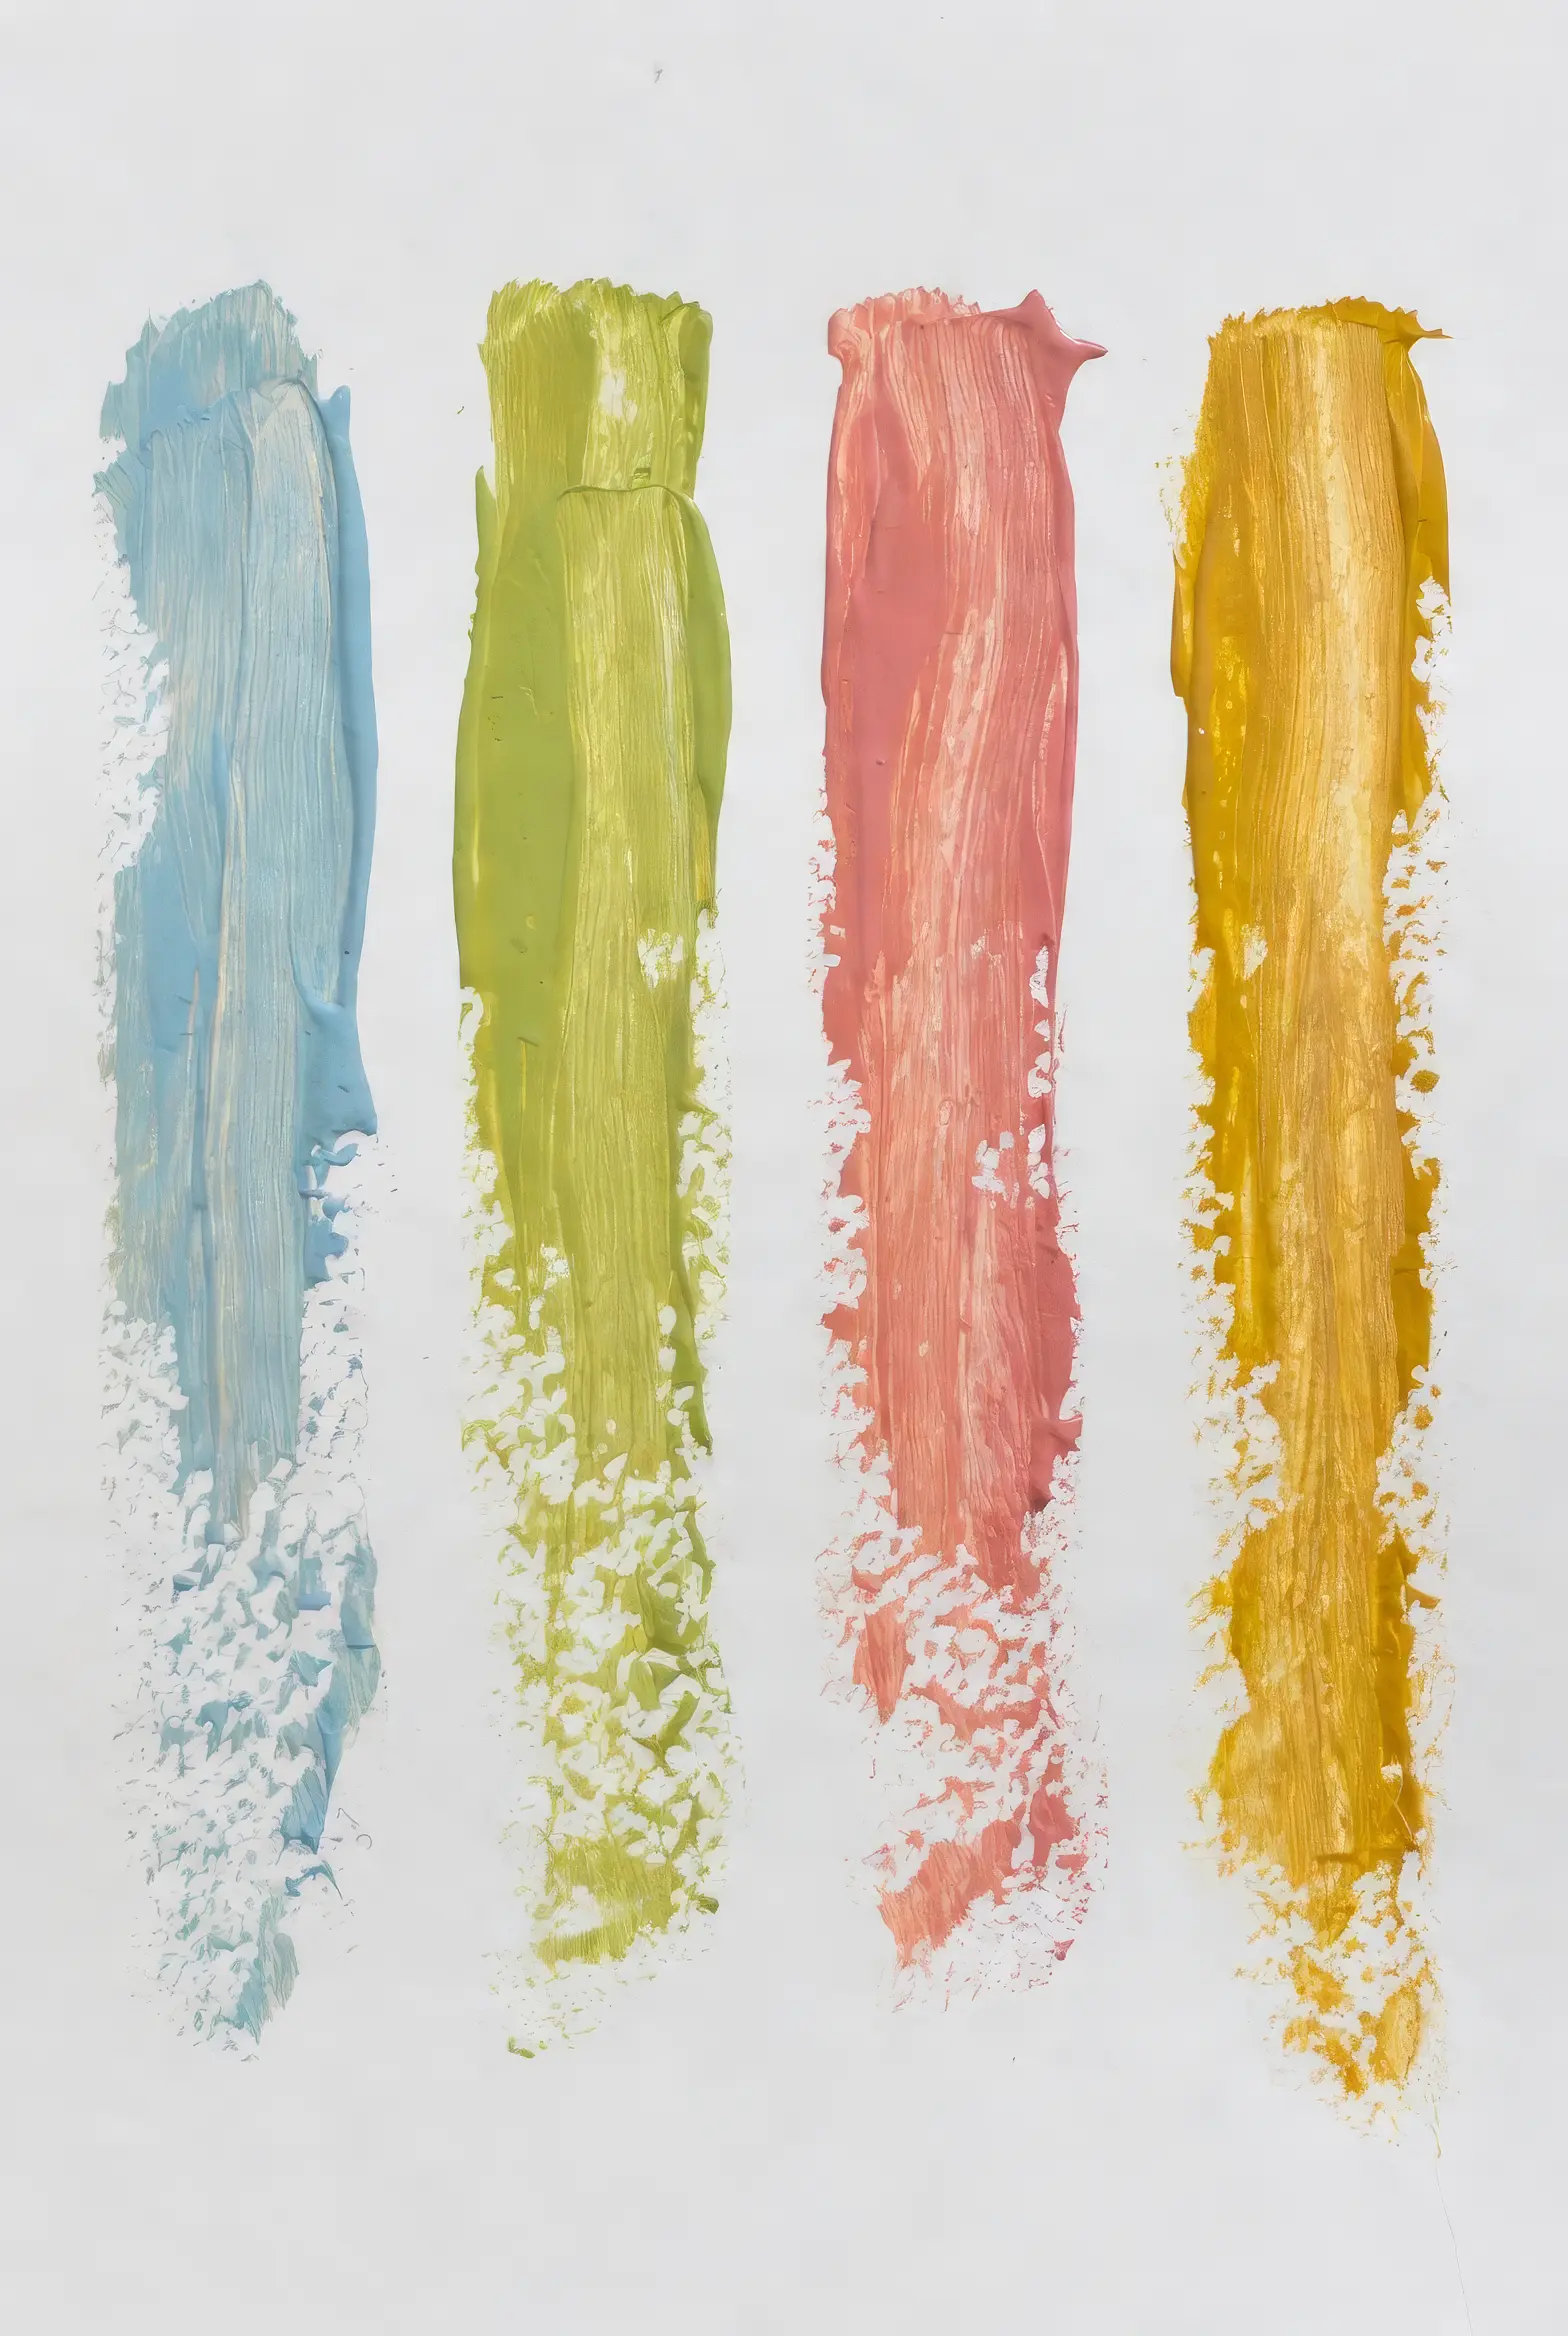
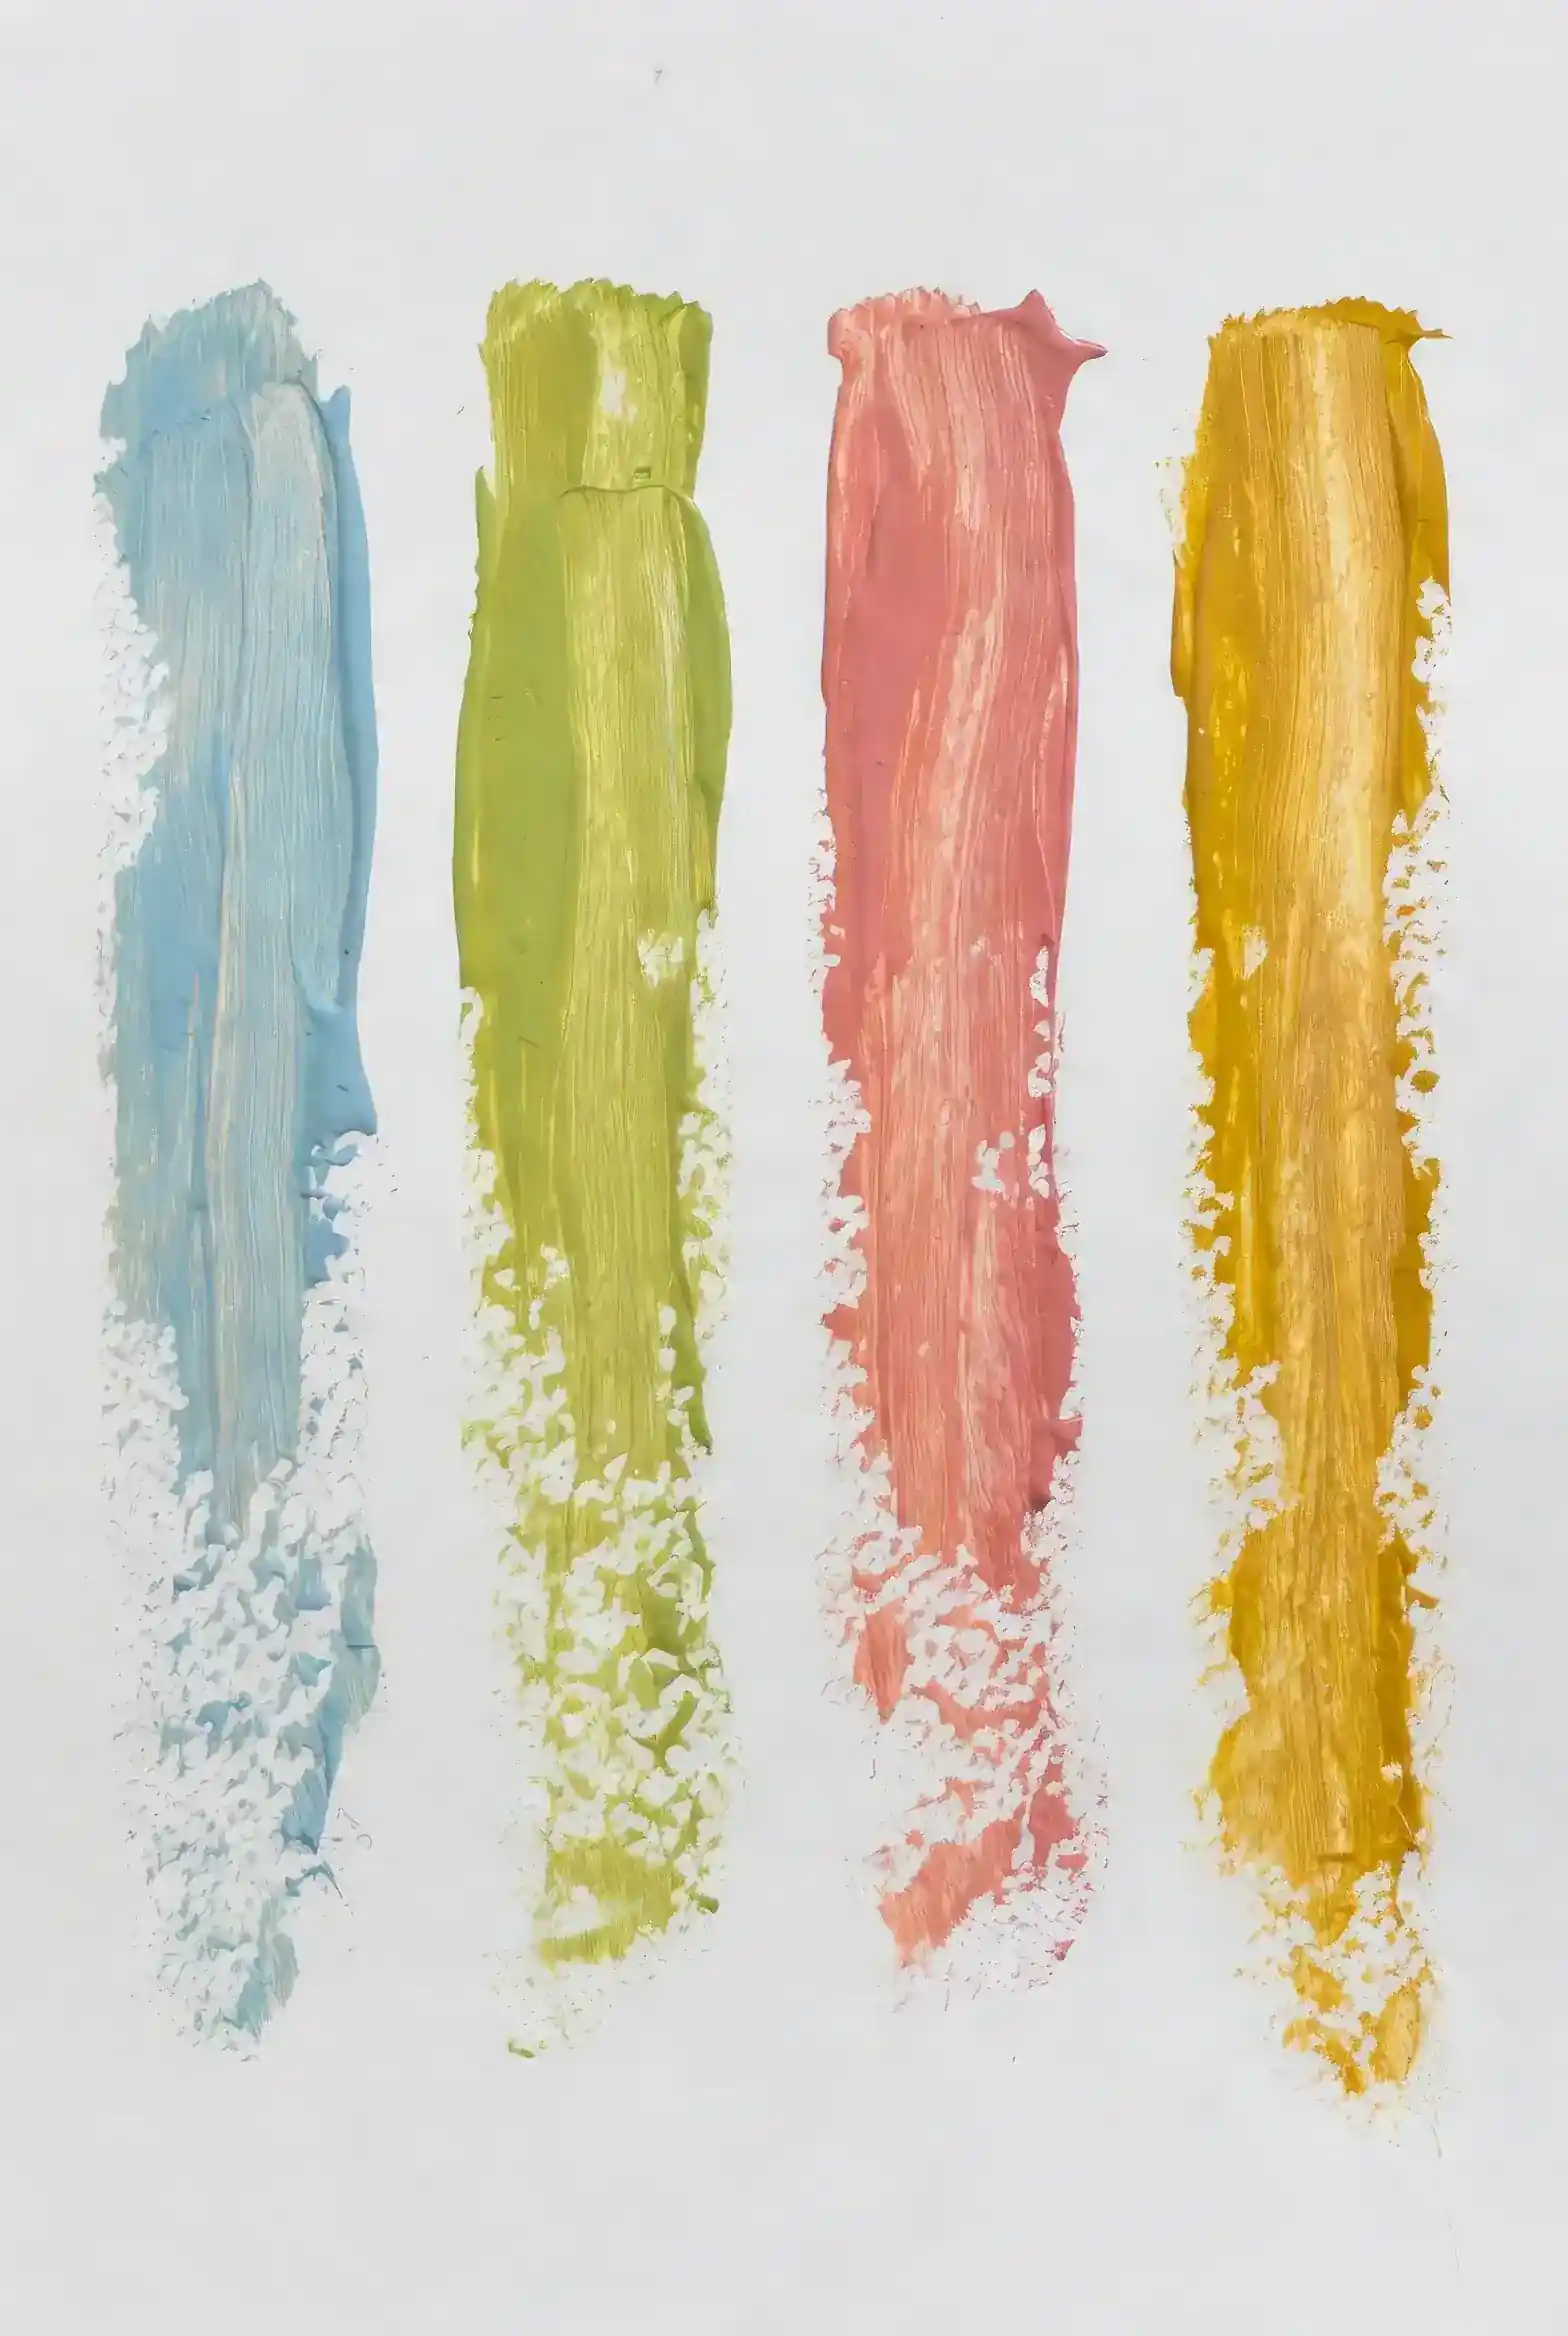
Add CTA band after projects section, compress decorative hero background

diff --git a/src/components/CtaBand.tsx b/src/components/CtaBand.tsx
@@ -1,0 +1,26 @@
+import { site } from "@/lib/content";
+
+export function CtaBand() {
+  return (
+    <section className="border-y border-[var(--color-border)] bg-accent-light">
+      <div className="container-page flex flex-col gap-6 py-12 md:flex-row md:items-center md:justify-between md:py-14">
+        <div>
+          <h2 className="font-serif text-[1.75rem] leading-[1.15] text-ink md:text-[2rem]">
+            Nyfiken på vad ditt projekt skulle kosta?
+          </h2>
+          <p className="mt-2 max-w-[46ch] text-[0.95rem] leading-[1.6] text-ink-soft">
+            Berätta kort om jobbet — vi återkommer inom ett arbetsdygn.
+          </p>
+        </div>
+        <div className="flex flex-wrap items-center gap-3 md:gap-4">
+          <a href="#kontakt" className="btn-primary">
+            Begär offert
+          </a>
+          <a href={site.phoneHref} className="btn-ghost">
+            {site.phone}
+          </a>
+        </div>
+      </div>
+    </section>
+  );
+}

diff --git a/src/app/page.tsx b/src/app/page.tsx
@@ -1,5 +1,6 @@
 import { About } from "@/components/About";
 import { Contact } from "@/components/Contact";
+import { CtaBand } from "@/components/CtaBand";
 import { Faq } from "@/components/Faq";
 import { Footer } from "@/components/Footer";
 import { Header } from "@/components/Header";
@@ -20,6 +21,7 @@ export default function Home() {
         <Turnkey />
         <About />
         <Projects />
+        <CtaBand />
         <Process />
         <Trust />
         <Faq />
